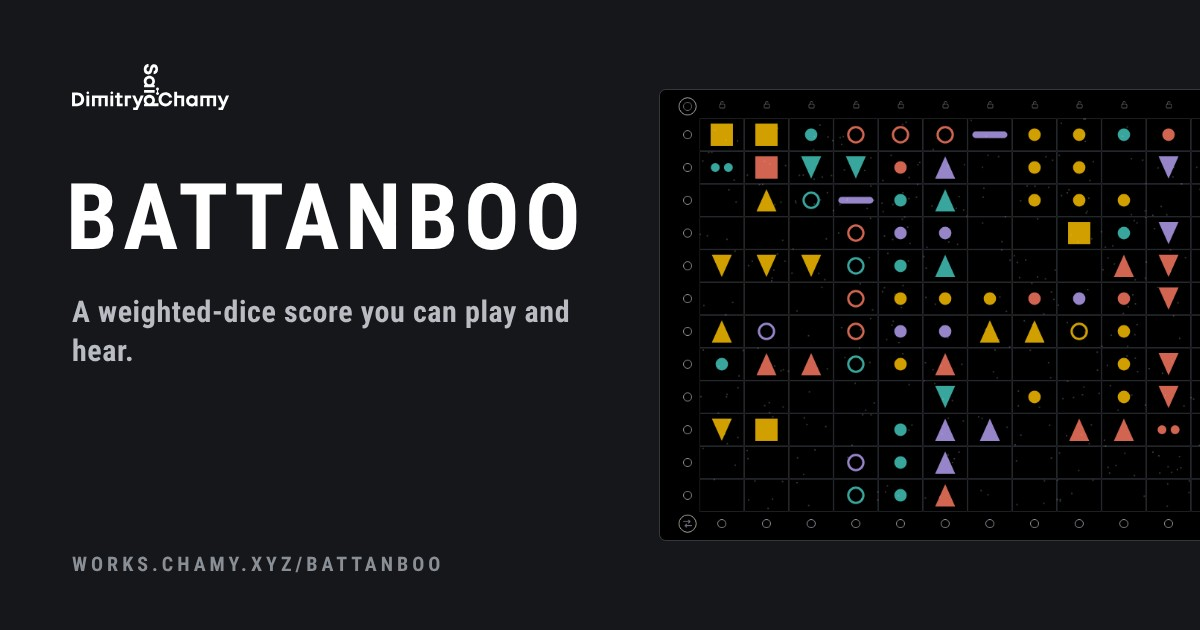
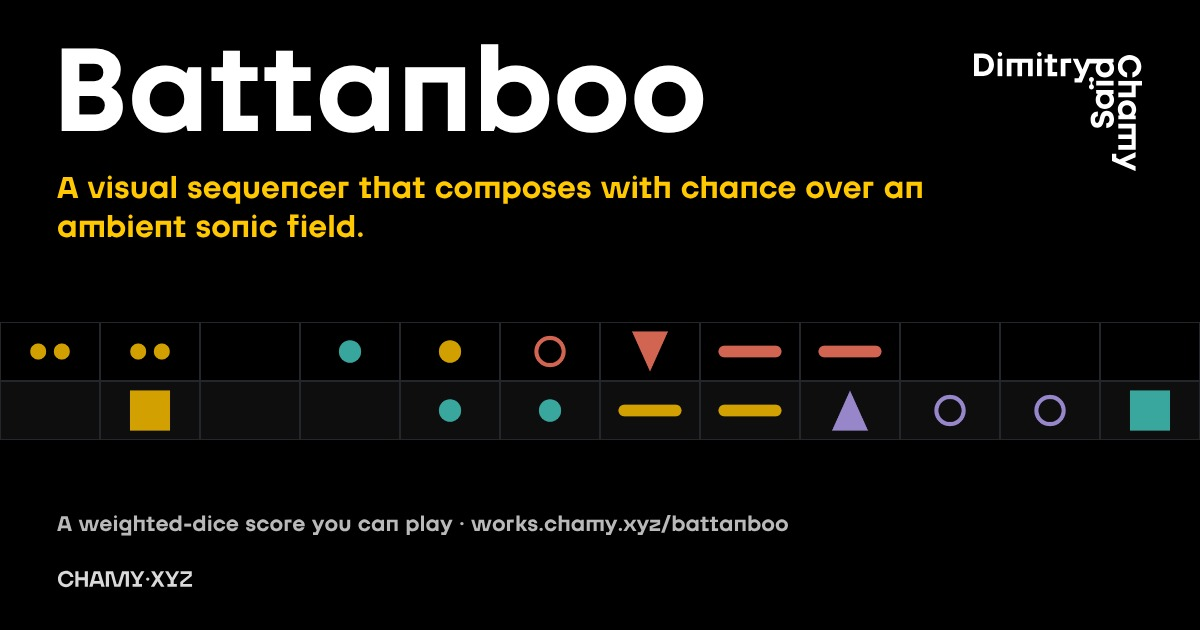
release Battanboo 0.5.4: share card
Claude-Session: https://claude.ai/code/session_01UTGHCa1JBBoFd9AGz3PbXb

diff --git a/battanboo/index.html b/battanboo/index.html
@@ -2,7 +2,7 @@
 <html lang="en"><head><meta charset="utf-8"><meta name="viewport" content="width=device-width,initial-scale=1,viewport-fit=cover"><style>:root{color-scheme:light;padding-top:env(safe-area-inset-top,0px);padding-bottom:env(safe-area-inset-bottom,0px)}body{margin:0;font:14px system-ui,sans-serif}img{max-width:100%}[hidden]{display:none!important}</style>
 <link rel="icon" href="icons/icon.svg" type="image/svg+xml"><link rel="icon" href="icons/icon-32.png" type="image/png" sizes="32x32"><link rel="apple-touch-icon" href="icons/icon-180.png"><link rel="manifest" href="manifest.webmanifest"><meta name="theme-color" content="#15171A">
 <meta name="description" content="A weighted-dice score you can play and hear."><meta property="og:type" content="website"><meta property="og:site_name" content="CHAMY·XYZ"><meta property="og:title" content="Battanboo"><meta property="og:description" content="A weighted-dice score you can play and hear."><meta property="og:url" content="https://works.chamy.xyz/battanboo/"><meta property="og:image" content="https://works.chamy.xyz/battanboo/og.jpg"><meta property="og:image:width" content="1200"><meta property="og:image:height" content="630"><meta property="og:image:alt" content="BATTANBOO in white beside the Dimitry Saïd Chamy namemark, and a score of coloured marks on a black grid"><meta name="twitter:card" content="summary_large_image"><meta name="twitter:title" content="Battanboo"><meta name="twitter:description" content="A weighted-dice score you can play and hear."><meta name="twitter:image" content="https://works.chamy.xyz/battanboo/og.jpg">
-<script>window.__BUILD__="20261112040357";window.__VERSION__="0.5.4";window.__NOTES__=[{"v": "0.5.4", "date": "11 Nov 2026", "items": [{"kind": "new", "text": "Field sounds can move on their own. Hold a field sound for its ring and tap Record, then drag it along any path. Let go, and that path becomes a movement whose length you set separately from how fast your hand went: a number of bars, beats or seconds (it starts at 4 bars). It can loop, go back and forth, or play once and stay. Smooth, Simplify and Steps shape it. The path shows as a faint line on the field."}, {"kind": "new", "text": "Random movement for field sounds: Wander in the ring, or Random in the sound's settings. The sound drifts in a closed random loop around where it was; New random shape rolls another, Range sets how far (small, medium, wide)."}, {"kind": "change", "text": "A field sound's ring is now the same halo ring as in Current: a Sound dot that opens its own ring (the pad, or any colour's sound), Settings, Record, Wander, Nudge, and in the lower left Duplicate (a copy beside it with the same sound, settings and movement) and in the lower right Take away."}, {"kind": "change", "text": "Clear all moved out of the sound's ring, because it affects every sound: it is a button beside the cube at the bottom of the field. Undo brings the sounds back."}, {"kind": "fix", "text": "Undo and redo now cover the field too. Putting a sound down, moving it, changing it, taking it away, or Clear all can each be stepped back and forward with the same buttons (and Ctrl or Cmd+Z) as the grid. Before, Clear all on the field had no way back."}, {"kind": "new", "text": "Field sounds are no longer one fixed pad. Hold a field sound (or right-click it) for the ring and tap the note (♪): choose its sound (the built-in pad, or the sound of any colour from the Sounds pane, held while you hold), and set its own level, wet, tone and pitch. \"New sounds start with this sound\" makes it the default; the same choice is in the Sounds pane under Field."}, {"kind": "new", "text": "The field has its own room. In the Sounds pane: Dry booth, Small room, Wooden hall, Cathedral, Cave, Open air, and sliders for Size, Decay, Damping and Wet."}, {"kind": "change", "text": "Muting the field fades it out over 4 seconds, and unmuting fades it back in, like the speaker. A sweep crosses the M button while it goes."}, {"kind": "change", "text": "Hold on the field is the same button as on the grid: the hand at the top right. Touching the field switches it to the closed hand (Hold) by itself, and touching the grid switches it back to the finger; tap it any time to choose one shot or Hold. The crossed infinity button is gone."}, {"kind": "fix", "text": "Turning Hold off on a field sound left no way to turn it back on, because the sound vanished when you let go. An infinity button with a slash now sits beside the cube whenever Hold is off; tap it to turn Hold on."}, {"kind": "change", "text": "On the field, left, near and right stay in the lower corners and middle, and the cube button sits centred just above \"near\", as big as the icons in the lower right menu."}, {"kind": "change", "text": "Wall and Floor are one cube button on the field. The cube shows the face you are looking at (the walls, or the floor) and a dot where you stand; tap it to switch."}, {"kind": "new", "text": "Hold and Clear moved onto the sounds. Hold a field sound, or right-click it, for the ring: nudge it, take it away, keep sounds held (the infinity mark), clear all."}, {"kind": "change", "text": "The MIDI button is now a MIDI plug symbol in the lower right menu, just under the clock. The text buttons by the stage edge and in the display footer are gone."}, {"kind": "change", "text": "The Wall, Floor, Hold and Clear switches on the field are a small quiet strip in the pad's bottom right corner, not a row of big pills. Wall and Floor are icons."}, {"kind": "fix", "text": "With more than four colours on a phone, the colour swatches beside the pad were 14 px slivers. They are now a two-column grid of real swatches."}, {"kind": "change", "text": "The separate Field display is gone. Its controls (what your finger plays, size of the marks, look of the effects) are now at the foot of Dice and air."}, {"kind": "fix", "text": "Every heads-up display now starts at the top. Before, the ones with less in them floated to the middle and the others sat at the top, with no reason you could see."}, {"kind": "new", "text": "MIDI learn now happens on the controls. Tap MIDI (bottom right of every heads-up display) and every control a knob can move gets a coloured shape. Tap a shape, move a knob: its number appears inside. Tap MIDI again and the mappings keep working; tap it again to see them, the unmapped ones left blank. × on a shape unmaps it."}, {"kind": "new", "text": "MIDI knows which controller is which. Switch several devices on or off in the learn panel, and two controllers can use the same knob numbers for different things. Mappings made before this still work, from any device."}, {"kind": "change", "text": "Form: Movements is now a large heading, and on a wide screen the movements sit in a right-hand column with everything else on the left."}, {"kind": "change", "text": "On a very large monitor the heads-up panes stay a centred column instead of stretching edge to edge, so sliders never run the whole width."}, {"kind": "fix", "text": "A held sound (Rubbed rim, Scraping glass, Sustain, Air, Crack run) could ring forever when Air was above zero, on the grid as well as on the play button, because its first grain was never given a length. Every grain now has one. Muting a colour also silences it at once, so a ringing sound stops when you press M."}, {"kind": "fix", "text": "The play button on a held sound (Rubbed rim, for one) no longer rings forever. It sounds for about a second and a half, then lets go."}, {"kind": "change", "text": "The line across each colour in the Mixer is now that colour's real sound, drawn live: a bell, a pad and a drum each have their own shape, and it follows the level you set. Before, it was one stock wave that only jumped when a note played."}, {"kind": "new", "text": "A play button to the left of each colour in the Mixer, the same size as the grid button above it. It sounds that colour at the level it is set to (so mute, solo and the crossfader count), a quick way to hear and balance the levels."}, {"kind": "change", "text": "The Dice and air pane and the Sounds pane use wide screens like the Play pane: the Weave controls beside the touch surfaces, and the colour sounds in two columns beside the sound sets."}, {"kind": "new", "text": "A MIDI pane in the heads-up display. Connect your controller, press Learn beside any control (the crossfader, volume, tone, air, space, morph, holds, repeat, tempo, the field or any colour's level), move a knob or slider once, and it is mapped. It shows the number of the last control you moved, so you can see what your device sends. One tap sets a MIDI Fighter Twister's 16 knobs to the main controls and the eight colours. Mappings are kept between visits. Needs Chrome on a Mac or a PC (Safari on iPhone and iPad has no MIDI)."}, {"kind": "change", "text": "The Mixer's MIDI button now opens that pane."}, {"kind": "change", "text": "The Play pane fits its space. Wide: the numbers and controls on the left, the four lines stacked on the right, each with more height to move in. Medium: controls on the left and Auto dice on the right, with the four lines as a 2 by 2 below. Narrow: one column with taller lines."}, {"kind": "fix", "text": "The small type in the Mixer (pad names and values, colour names and percentages) is larger and grows with the screen."}, {"kind": "fix", "text": "With the field switched off, its held notes stay visible as faint dots over the grid, so you can see where they are, as the grid's marks do when the grid is off. Taps still go to the grid."}, {"kind": "fix", "text": "Closing the field panel no longer drops the field's held voices. They keep sounding; Clear, or a double-tap on a note, lets them go."}, {"kind": "fix", "text": "The field's Wall, Floor, Hold and Clear buttons: the lit ones were unreadable (colour clash). They are readable now, smaller, in one row at the bottom middle of the field instead of the top left, and the field's left, low and right words sit above them. The space around the buttons no longer blocks taps on the cells."}, {"kind": "change", "text": "In the Mixer's crossfader, the Grid and Field percentages now sit at their own ends of the slider, beside their icons, instead of in the middle."}, {"kind": "new", "text": "Every colour has its own sound. With more than four colours, colours 5 to 8 are a drum kit (each row a different drum), a goblet (crystal), a rubbed rim and a spill of shards, so no sound repeats. Colours 1 to 4 stay the grid's four voices, unchanged. Your choice for each colour is now remembered between visits."}, {"kind": "new", "text": "In the Sounds pane, each colour has its own chooser. Sounds are grouped (voices of the grid; struck: one hit that rings away; held: sounds while you hold; banks: a different sound on each row), each with a plain line on what it is, and a + to bring in your own."}, {"kind": "fix", "text": "Reloading with more than four colours left colours 5 to 8 empty in the Mixer and playing colour 1's sound. They come back with their own sounds now."}, {"kind": "change", "text": "The crossfader's mode button is now a square icon (Blend, Fade, Free), the same size as M and S."}, {"kind": "fix", "text": "The coloured line across each Mixer row fades out under the name and the percentage, and the type has a soft dark edge, so both read clearly."}, {"kind": "change", "text": "Note names sit in the top-left corner of their cell. The names chooser is a dropdown like the scale and root: No names, Names on the first row, Names on every cell, Names on hover. It no longer changes width."}, {"kind": "change", "text": "The two frame grips are now just dots, set the same small distance inside each edge of the frame, with no handle shape behind them. The area you can grab is the same, and invisible."}, {"kind": "new", "text": "Each colour row in the Mixer now names its sound next to the number (Synth: pluck, Glass, Drums...), and the name follows when you change the sound."}, {"kind": "change", "text": "Wall, Floor, Hold and Clear now sit on the field itself, in its top-left corner, whenever the field is on, so you change the field where you see it. The Field pane keeps who you are touching, the floor pitch, the size of the marks and the look of the effects."}, {"kind": "change", "text": "The Free / Blend / Fade buttons at the foot of the Mixer are gone; the mode button beside the crossfader does their job."}, {"kind": "change", "text": "The scale, root and note names, which the grid and the field share, moved to the Mixer, on the right of the Free / Blend / Fade / MIDI row."}, {"kind": "new", "text": "The grid and field icons sit either side of the crossfader at the top of the Mixer. Tap one and the crossfader goes all the way to that side (that one at 100%, the other away); double-tap either to put it back in the middle. A button to the right of them chooses how the two cross: Blend (both full in the middle), Fade (opposed, 50 and 50 in the middle) or Free (no crossfade)."}, {"kind": "new", "text": "The A|B crossfader now also sits at the top of the Mixer, the same one as on the tempo bar, with the grid and field percentages in the middle. The colour bars and the Field bar dim as the crossfader turns them down, so you can see why something is quiet."}, {"kind": "fix", "text": "The Field bar had the same limit as the colour bars (it could only reach what the crossfader let through). It now runs its full length."}, {"kind": "fix", "text": "The four colour sliders (1 to 4) could not be pulled past about 13%. They were scaled by the A|B crossfader, so with it toward the field the whole slider shrank to what the crossfader let through. They now always run the full length and set the colour's own level; the crossfader still decides how much of it you hear."}, {"kind": "change", "text": "Tapping the Field button a second time while the field is in front dismisses the field and returns to the grid."}, {"kind": "fix", "text": "The rings, blooms and specks sat off to the side of the shapes that made them, in play and in Cinema, more so on a stretched frame. The effects layer was being squeezed to the grid's width; it now keeps its true size, so every effect is centred on its shape."}, {"kind": "fix", "text": "The play lines (the bars that sweep across the grid) now run on past its edge, across the whole screen, in play and in Cinema, as the rings and blooms do."}, {"kind": "fix", "text": "The rings and blooms that answer each sound are no longer cut off at the edge of the grid, in play and in Cinema: the effects layer reaches beyond the grid on every side, so they spread out freely."}, {"kind": "new", "text": "Cinema. In full screen, after five quiet seconds, the interface fades away and only the shapes, the play lines and the effects remain, on black, with the grid lines running on to the edges of the screen. Move the mouse, touch the screen or press a key and everything comes back (that first touch only wakes it; it plays nothing)."}, {"kind": "fix", "text": "The frame grips now sit on the frame itself, and the frame can be stretched to the full width of a large screen. Full screen no longer inherits a squeezed frame (that made the grid tall and pushed the bars off the screen); it always uses the whole screen."}, {"kind": "new", "text": "On a wide screen (900 px and up) a grip sits on each side of the frame. Drag either one to stretch or squeeze the frame (it stays centred, from 640 px up to the full width); double-click for full width; with a grip focused, the arrow keys step it, Home is narrowest and End is full width. The width is remembered."}, {"kind": "new", "text": "With the HUD open, tap the Grid or Field button again to close it, or tap the bare background outside the frame (a drag does not close it)."}, {"kind": "change", "text": "The Weave preset in use is ringed in bright yellow (a border, not a fill)."}, {"kind": "fix", "text": "The opening's shapes are sharp by the time they stop, and it is the interface that comes into focus behind them, from blurred to sharp as it fades in."}, {"kind": "fix", "text": "No more sideways jump when the real shapes take over: the opening's canvas is now measured from its own box, so on screens with a scrollbar it lines up with the grid exactly."}]}]</script>
+<script>window.__BUILD__="20261112041922";window.__VERSION__="0.5.4";window.__NOTES__=[{"v": "0.5.4", "date": "11 Nov 2026", "items": [{"kind": "change", "text": "The share card (the picture shown when the link is shared) follows the layout of the Digital Broadsides: black, the name large at the top left, the line \"A visual sequencer that composes with chance over an ambient sonic field.\" in yellow, the corner namemark at the top right, a strip of the score itself across the middle, and the CHAMY·XYZ word at the bottom left."}, {"kind": "new", "text": "Field sounds can move on their own. Hold a field sound for its ring and tap Record, then drag it along any path. Let go, and that path becomes a movement whose length you set separately from how fast your hand went: a number of bars, beats or seconds (it starts at 4 bars). It can loop, go back and forth, or play once and stay. Smooth, Simplify and Steps shape it. The path shows as a faint line on the field."}, {"kind": "new", "text": "Random movement for field sounds: Wander in the ring, or Random in the sound's settings. The sound drifts in a closed random loop around where it was; New random shape rolls another, Range sets how far (small, medium, wide)."}, {"kind": "change", "text": "A field sound's ring is now the same halo ring as in Current: a Sound dot that opens its own ring (the pad, or any colour's sound), Settings, Record, Wander, Nudge, and in the lower left Duplicate (a copy beside it with the same sound, settings and movement) and in the lower right Take away."}, {"kind": "change", "text": "Clear all moved out of the sound's ring, because it affects every sound: it is a button beside the cube at the bottom of the field. Undo brings the sounds back."}, {"kind": "fix", "text": "Undo and redo now cover the field too. Putting a sound down, moving it, changing it, taking it away, or Clear all can each be stepped back and forward with the same buttons (and Ctrl or Cmd+Z) as the grid. Before, Clear all on the field had no way back."}, {"kind": "new", "text": "Field sounds are no longer one fixed pad. Hold a field sound (or right-click it) for the ring and tap the note (♪): choose its sound (the built-in pad, or the sound of any colour from the Sounds pane, held while you hold), and set its own level, wet, tone and pitch. \"New sounds start with this sound\" makes it the default; the same choice is in the Sounds pane under Field."}, {"kind": "new", "text": "The field has its own room. In the Sounds pane: Dry booth, Small room, Wooden hall, Cathedral, Cave, Open air, and sliders for Size, Decay, Damping and Wet."}, {"kind": "change", "text": "Muting the field fades it out over 4 seconds, and unmuting fades it back in, like the speaker. A sweep crosses the M button while it goes."}, {"kind": "change", "text": "Hold on the field is the same button as on the grid: the hand at the top right. Touching the field switches it to the closed hand (Hold) by itself, and touching the grid switches it back to the finger; tap it any time to choose one shot or Hold. The crossed infinity button is gone."}, {"kind": "fix", "text": "Turning Hold off on a field sound left no way to turn it back on, because the sound vanished when you let go. An infinity button with a slash now sits beside the cube whenever Hold is off; tap it to turn Hold on."}, {"kind": "change", "text": "On the field, left, near and right stay in the lower corners and middle, and the cube button sits centred just above \"near\", as big as the icons in the lower right menu."}, {"kind": "change", "text": "Wall and Floor are one cube button on the field. The cube shows the face you are looking at (the walls, or the floor) and a dot where you stand; tap it to switch."}, {"kind": "new", "text": "Hold and Clear moved onto the sounds. Hold a field sound, or right-click it, for the ring: nudge it, take it away, keep sounds held (the infinity mark), clear all."}, {"kind": "change", "text": "The MIDI button is now a MIDI plug symbol in the lower right menu, just under the clock. The text buttons by the stage edge and in the display footer are gone."}, {"kind": "change", "text": "The Wall, Floor, Hold and Clear switches on the field are a small quiet strip in the pad's bottom right corner, not a row of big pills. Wall and Floor are icons."}, {"kind": "fix", "text": "With more than four colours on a phone, the colour swatches beside the pad were 14 px slivers. They are now a two-column grid of real swatches."}, {"kind": "change", "text": "The separate Field display is gone. Its controls (what your finger plays, size of the marks, look of the effects) are now at the foot of Dice and air."}, {"kind": "fix", "text": "Every heads-up display now starts at the top. Before, the ones with less in them floated to the middle and the others sat at the top, with no reason you could see."}, {"kind": "new", "text": "MIDI learn now happens on the controls. Tap MIDI (bottom right of every heads-up display) and every control a knob can move gets a coloured shape. Tap a shape, move a knob: its number appears inside. Tap MIDI again and the mappings keep working; tap it again to see them, the unmapped ones left blank. × on a shape unmaps it."}, {"kind": "new", "text": "MIDI knows which controller is which. Switch several devices on or off in the learn panel, and two controllers can use the same knob numbers for different things. Mappings made before this still work, from any device."}, {"kind": "change", "text": "Form: Movements is now a large heading, and on a wide screen the movements sit in a right-hand column with everything else on the left."}, {"kind": "change", "text": "On a very large monitor the heads-up panes stay a centred column instead of stretching edge to edge, so sliders never run the whole width."}, {"kind": "fix", "text": "A held sound (Rubbed rim, Scraping glass, Sustain, Air, Crack run) could ring forever when Air was above zero, on the grid as well as on the play button, because its first grain was never given a length. Every grain now has one. Muting a colour also silences it at once, so a ringing sound stops when you press M."}, {"kind": "fix", "text": "The play button on a held sound (Rubbed rim, for one) no longer rings forever. It sounds for about a second and a half, then lets go."}, {"kind": "change", "text": "The line across each colour in the Mixer is now that colour's real sound, drawn live: a bell, a pad and a drum each have their own shape, and it follows the level you set. Before, it was one stock wave that only jumped when a note played."}, {"kind": "new", "text": "A play button to the left of each colour in the Mixer, the same size as the grid button above it. It sounds that colour at the level it is set to (so mute, solo and the crossfader count), a quick way to hear and balance the levels."}, {"kind": "change", "text": "The Dice and air pane and the Sounds pane use wide screens like the Play pane: the Weave controls beside the touch surfaces, and the colour sounds in two columns beside the sound sets."}, {"kind": "new", "text": "A MIDI pane in the heads-up display. Connect your controller, press Learn beside any control (the crossfader, volume, tone, air, space, morph, holds, repeat, tempo, the field or any colour's level), move a knob or slider once, and it is mapped. It shows the number of the last control you moved, so you can see what your device sends. One tap sets a MIDI Fighter Twister's 16 knobs to the main controls and the eight colours. Mappings are kept between visits. Needs Chrome on a Mac or a PC (Safari on iPhone and iPad has no MIDI)."}, {"kind": "change", "text": "The Mixer's MIDI button now opens that pane."}, {"kind": "change", "text": "The Play pane fits its space. Wide: the numbers and controls on the left, the four lines stacked on the right, each with more height to move in. Medium: controls on the left and Auto dice on the right, with the four lines as a 2 by 2 below. Narrow: one column with taller lines."}, {"kind": "fix", "text": "The small type in the Mixer (pad names and values, colour names and percentages) is larger and grows with the screen."}, {"kind": "fix", "text": "With the field switched off, its held notes stay visible as faint dots over the grid, so you can see where they are, as the grid's marks do when the grid is off. Taps still go to the grid."}, {"kind": "fix", "text": "Closing the field panel no longer drops the field's held voices. They keep sounding; Clear, or a double-tap on a note, lets them go."}, {"kind": "fix", "text": "The field's Wall, Floor, Hold and Clear buttons: the lit ones were unreadable (colour clash). They are readable now, smaller, in one row at the bottom middle of the field instead of the top left, and the field's left, low and right words sit above them. The space around the buttons no longer blocks taps on the cells."}, {"kind": "change", "text": "In the Mixer's crossfader, the Grid and Field percentages now sit at their own ends of the slider, beside their icons, instead of in the middle."}, {"kind": "new", "text": "Every colour has its own sound. With more than four colours, colours 5 to 8 are a drum kit (each row a different drum), a goblet (crystal), a rubbed rim and a spill of shards, so no sound repeats. Colours 1 to 4 stay the grid's four voices, unchanged. Your choice for each colour is now remembered between visits."}, {"kind": "new", "text": "In the Sounds pane, each colour has its own chooser. Sounds are grouped (voices of the grid; struck: one hit that rings away; held: sounds while you hold; banks: a different sound on each row), each with a plain line on what it is, and a + to bring in your own."}, {"kind": "fix", "text": "Reloading with more than four colours left colours 5 to 8 empty in the Mixer and playing colour 1's sound. They come back with their own sounds now."}, {"kind": "change", "text": "The crossfader's mode button is now a square icon (Blend, Fade, Free), the same size as M and S."}, {"kind": "fix", "text": "The coloured line across each Mixer row fades out under the name and the percentage, and the type has a soft dark edge, so both read clearly."}, {"kind": "change", "text": "Note names sit in the top-left corner of their cell. The names chooser is a dropdown like the scale and root: No names, Names on the first row, Names on every cell, Names on hover. It no longer changes width."}, {"kind": "change", "text": "The two frame grips are now just dots, set the same small distance inside each edge of the frame, with no handle shape behind them. The area you can grab is the same, and invisible."}, {"kind": "new", "text": "Each colour row in the Mixer now names its sound next to the number (Synth: pluck, Glass, Drums...), and the name follows when you change the sound."}, {"kind": "change", "text": "Wall, Floor, Hold and Clear now sit on the field itself, in its top-left corner, whenever the field is on, so you change the field where you see it. The Field pane keeps who you are touching, the floor pitch, the size of the marks and the look of the effects."}, {"kind": "change", "text": "The Free / Blend / Fade buttons at the foot of the Mixer are gone; the mode button beside the crossfader does their job."}, {"kind": "change", "text": "The scale, root and note names, which the grid and the field share, moved to the Mixer, on the right of the Free / Blend / Fade / MIDI row."}, {"kind": "new", "text": "The grid and field icons sit either side of the crossfader at the top of the Mixer. Tap one and the crossfader goes all the way to that side (that one at 100%, the other away); double-tap either to put it back in the middle. A button to the right of them chooses how the two cross: Blend (both full in the middle), Fade (opposed, 50 and 50 in the middle) or Free (no crossfade)."}, {"kind": "new", "text": "The A|B crossfader now also sits at the top of the Mixer, the same one as on the tempo bar, with the grid and field percentages in the middle. The colour bars and the Field bar dim as the crossfader turns them down, so you can see why something is quiet."}, {"kind": "fix", "text": "The Field bar had the same limit as the colour bars (it could only reach what the crossfader let through). It now runs its full length."}, {"kind": "fix", "text": "The four colour sliders (1 to 4) could not be pulled past about 13%. They were scaled by the A|B crossfader, so with it toward the field the whole slider shrank to what the crossfader let through. They now always run the full length and set the colour's own level; the crossfader still decides how much of it you hear."}, {"kind": "change", "text": "Tapping the Field button a second time while the field is in front dismisses the field and returns to the grid."}, {"kind": "fix", "text": "The rings, blooms and specks sat off to the side of the shapes that made them, in play and in Cinema, more so on a stretched frame. The effects layer was being squeezed to the grid's width; it now keeps its true size, so every effect is centred on its shape."}, {"kind": "fix", "text": "The play lines (the bars that sweep across the grid) now run on past its edge, across the whole screen, in play and in Cinema, as the rings and blooms do."}, {"kind": "fix", "text": "The rings and blooms that answer each sound are no longer cut off at the edge of the grid, in play and in Cinema: the effects layer reaches beyond the grid on every side, so they spread out freely."}, {"kind": "new", "text": "Cinema. In full screen, after five quiet seconds, the interface fades away and only the shapes, the play lines and the effects remain, on black, with the grid lines running on to the edges of the screen. Move the mouse, touch the screen or press a key and everything comes back (that first touch only wakes it; it plays nothing)."}, {"kind": "fix", "text": "The frame grips now sit on the frame itself, and the frame can be stretched to the full width of a large screen. Full screen no longer inherits a squeezed frame (that made the grid tall and pushed the bars off the screen); it always uses the whole screen."}, {"kind": "new", "text": "On a wide screen (900 px and up) a grip sits on each side of the frame. Drag either one to stretch or squeeze the frame (it stays centred, from 640 px up to the full width); double-click for full width; with a grip focused, the arrow keys step it, Home is narrowest and End is full width. The width is remembered."}, {"kind": "new", "text": "With the HUD open, tap the Grid or Field button again to close it, or tap the bare background outside the frame (a drag does not close it)."}, {"kind": "change", "text": "The Weave preset in use is ringed in bright yellow (a border, not a fill)."}, {"kind": "fix", "text": "The opening's shapes are sharp by the time they stop, and it is the interface that comes into focus behind them, from blurred to sharp as it fades in."}, {"kind": "fix", "text": "No more sideways jump when the real shapes take over: the opening's canvas is now measured from its own box, so on screens with a scrollbar it lines up with the grid exactly."}]}]</script>
 <title>Battanboo</title>
 <!-- v69: renamed from Battanbou. v71: corner all-switches (top left play, bottom right locks); Index uses the kit sections.js -->
 <meta name="claude:viewport-fit-sides" content="cover">
